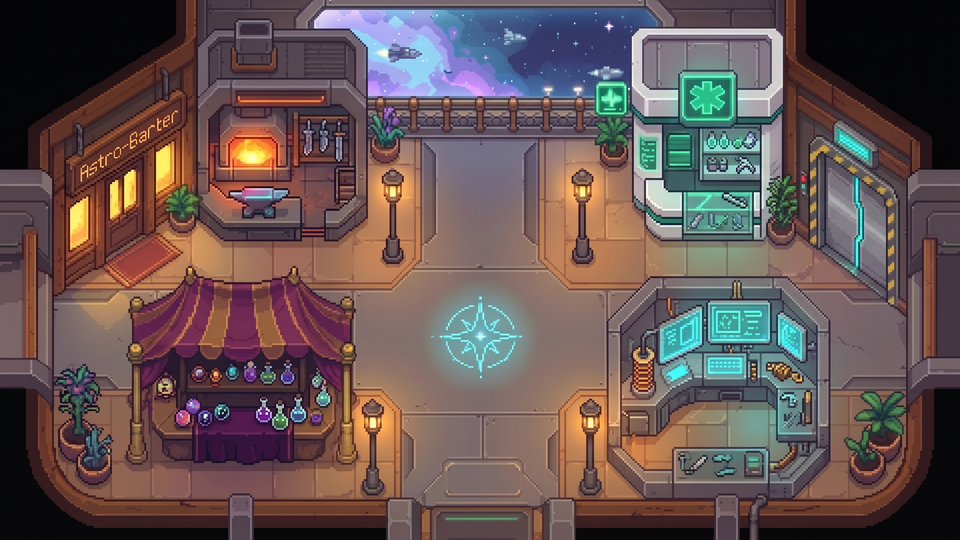
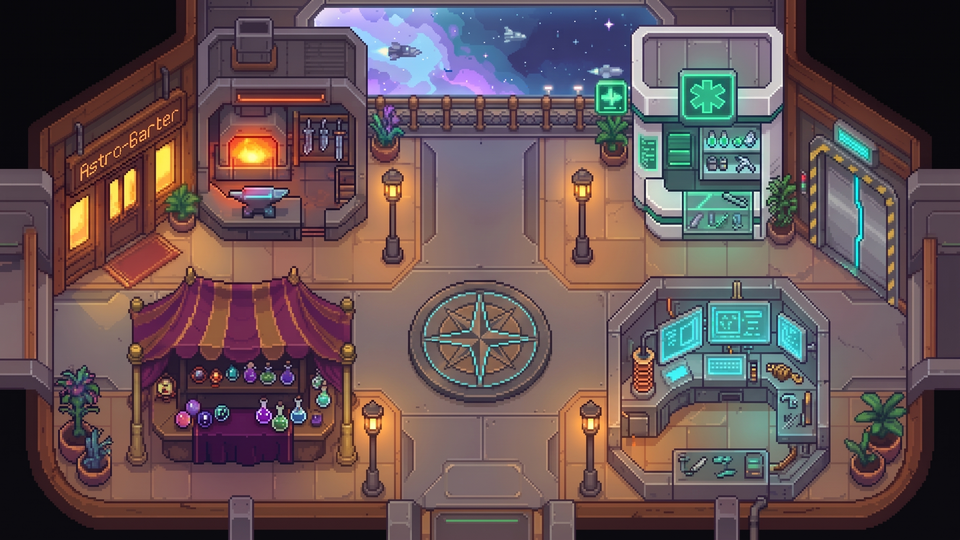
feat(laden,welt): Vitrinen je Stufe, futuristische Truhen, Boden-Medaillon statt Kompass-Glühen, bodenbündige Props
Claude-Session: https://claude.ai/code/session_016nKYwkpeUHJGHpF5xe8T1D

diff --git a/src/scenes/hubEvolution.ts b/src/scenes/hubEvolution.ts
@@ -7,7 +7,7 @@
  * Keine neuen Hub-Hintergründe: Kollisionen & Prompts hängen an hub_bg.png.
  */
 import { getHDArt, type M10SpriteKey, type M12SpriteKey } from '../assets/artLoader';
-import { drawGlow, drawPixelShadow } from '../assets/pixelArt';
+import { drawContactShadow, drawGlow, drawPixelShadow, spriteFootBottom } from '../assets/pixelArt';
 import { SUIT_THEMES } from '../data/companions';
 import type { GameState } from '../systems/gameState';
 import type { StoryFlagId } from '../types';
@@ -62,7 +62,11 @@ function poly(ctx: CanvasRenderingContext2D, pts: Array<[number, number]>, fill:
 
 /** Zeichnet ein Sprite mit Fuß-Mitte bei (x, footY). */
 function drawSpriteFoot(ctx: CanvasRenderingContext2D, spr: HTMLCanvasElement, x: number, footY: number, w: number, h: number): void {
-  ctx.drawImage(spr, Math.round(x - w / 2), Math.round(footY - h), w, h);
+  // Sichtbare Unterkante landet exakt auf footY (Leerrand im PNG erzeugt sonst Schweben) + Kontaktschatten dort
+  const dy = Math.round(footY - h * spriteFootBottom(spr));
+  const dx = Math.round(x - w / 2);
+  drawContactShadow(ctx, spr, dx, dy, w, h, 0.5);
+  ctx.drawImage(spr, dx, dy, w, h);
 }
 
 export class HubEvolutionRenderer {
@@ -289,8 +293,8 @@ export class HubEvolutionRenderer {
   // ---------- Objekte (Sprite oder Fallback) ----------
   private drawCrystalLantern(ctx: CanvasRenderingContext2D, x: number, y: number, time: number): void {
     const glow = 0.3 + 0.1 * Math.sin(time * 2.4 + x);
-    drawPixelShadow(ctx, x, y, 6, 2.2, 0.42);
     const spr = this.sprite('propHubCrystalLantern');
+    if (!spr) drawPixelShadow(ctx, x, y, 6, 2.2, 0.42);
     if (spr) {
       drawSpriteFoot(ctx, spr, x, y, 22, 30);
     } else {
@@ -305,8 +309,8 @@ export class HubEvolutionRenderer {
   }
 
   private drawObelisk(ctx: CanvasRenderingContext2D, x: number, y: number, time: number): void {
-    drawPixelShadow(ctx, x, y + 1, 10, 3.2, 0.5);
     const spr = this.sprite('propHubElderObelisk');
+    if (!spr) drawPixelShadow(ctx, x, y + 1, 10, 3.2, 0.5);
     if (spr) {
       drawSpriteFoot(ctx, spr, x, y, 34, 44);
     } else {
@@ -370,8 +374,8 @@ export class HubEvolutionRenderer {
   }
 
   private drawCycleHolo(ctx: CanvasRenderingContext2D, x: number, y: number, time: number): void {
-    drawPixelShadow(ctx, x, y, 6, 2, 0.35);
     const spr = this.sprite('propHubCycleHolo');
+    if (!spr) drawPixelShadow(ctx, x, y, 6, 2, 0.35);
     if (spr) {
       drawSpriteFoot(ctx, spr, x, y, 26, 26);
     } else {
@@ -398,8 +402,8 @@ export class HubEvolutionRenderer {
   }
 
   private drawMemorial(ctx: CanvasRenderingContext2D, x: number, y: number, time: number): void {
-    drawPixelShadow(ctx, x, y, 9, 3, 0.45);
     const spr = this.sprite('propKaelMemorial');
+    if (!spr) drawPixelShadow(ctx, x, y, 9, 3, 0.45);
     const flick = 0.85 + 0.15 * Math.sin(time * 9 + 1);
     if (spr) {
       drawSpriteFoot(ctx, spr, x, y, 26, 26);
@@ -461,8 +465,8 @@ export class HubEvolutionRenderer {
   }
 
   private drawBeacon(ctx: CanvasRenderingContext2D, x: number, y: number, time: number): void {
-    drawPixelShadow(ctx, x, y + 1, 7, 2.6, 0.45);
     const spr = this.sprite('propVexBeacon');
+    if (!spr) drawPixelShadow(ctx, x, y + 1, 7, 2.6, 0.45);
     const blink = Math.sin(time * 4) > 0;
     if (spr) {
       drawSpriteFoot(ctx, spr, x, y, 30, 40);
@@ -517,8 +521,8 @@ export class HubEvolutionRenderer {
 
   /** M12 (E): Vitrine mit der A.E.G.I.S.-Herzlinse. Sprite `prop_trophy_leviathan` optional, sonst prozedural. */
   private drawLeviathanVitrine(ctx: CanvasRenderingContext2D, x: number, y: number, time: number): void {
-    drawPixelShadow(ctx, x, y + 1, 9, 2.8, 0.45);
     const spr = this.sprite('propTrophyLeviathan');
+    if (!spr) drawPixelShadow(ctx, x, y + 1, 9, 2.8, 0.45);
     const pulse = 0.5 + 0.5 * Math.sin(time * 2.4);
     if (spr) {
       drawSpriteFoot(ctx, spr, x, y, 26, 26);
@@ -540,8 +544,8 @@ export class HubEvolutionRenderer {
   }
 
   private drawClassboard(ctx: CanvasRenderingContext2D, x: number, y: number, time: number): void {
-    drawPixelShadow(ctx, x, y + 1, 8, 2.6, 0.45);
     const spr = this.sprite('propVexClassboard');
+    if (!spr) drawPixelShadow(ctx, x, y + 1, 8, 2.6, 0.45);
     if (spr) {
       drawSpriteFoot(ctx, spr, x, y, 26, 24);
     } else {

diff --git a/src/scenes/ShopScene.ts b/src/scenes/ShopScene.ts
@@ -1,5 +1,5 @@
 import { getHDArt } from '../assets/artLoader';
-import { drawGlow, drawPixelShadow } from '../assets/pixelArt';
+import { drawContactShadow, drawGlow, drawPixelShadow } from '../assets/pixelArt';
 import { getAtlas } from '../assets/sprites';
 import { COMPANION_DEFS, MARKET_EVENT_META, SUIT_THEMES } from '../data/companions';
 import { PATRON_DEFS, PATRON_ORDER } from '../data/guildMarket';
@@ -1669,7 +1669,8 @@ export class ShopScene {
     const y = SALE_BOX_POS.y;
     const count = this.state.countSaleBoxItems();
 
-    drawPixelShadow(ctx, x, y + 9, 11, 3.6, 0.46);
+    if (art.propSaleBox) drawContactShadow(ctx, art.propSaleBox, x - 11, y - 14, 22, 23, 0.55);
+    else drawPixelShadow(ctx, x, y + 9, 11, 3.6, 0.46);
     drawGlow(ctx, x, y - 2, 18, '#fb923c', (count > 0 ? 0.3 : 0.14) + pulse * 0.08);
     if (art.propSaleBox) {
       ctx.drawImage(art.propSaleBox, x - 11, y - 14, 22, 23);
@@ -1904,10 +1905,17 @@ export class ShopScene {
     const atlas = getAtlas();
     const active = p.itemId !== null && p.qty > 0;
 
-    drawPixelShadow(ctx, p.x, p.y + 11, 14, 4.5, 0.45);
-    if (art.pedestal) {
+    // Vitrine je Laden-Ausbaustufe (Intro-Look: Holo-Glasvitrine → Messing → Gold/Kristall); Fallback: alter Sockel
+    const tierIdx = Math.max(0, Math.min(2, this.state.upgrades.shopTier ?? 0));
+    const vitrine = [art.vitrineT1, art.vitrineT2, art.vitrineT3][tierIdx];
+    if (vitrine) {
+      drawContactShadow(ctx, vitrine, p.x - 16, p.y - 20, 32, 32, 0.55);
+      ctx.drawImage(vitrine, p.x - 16, p.y - 20, 32, 32);
+    } else if (art.pedestal) {
+      drawPixelShadow(ctx, p.x, p.y + 11, 14, 4.5, 0.45);
       ctx.drawImage(art.pedestal, p.x - 14, p.y - 14, 28, 28);
     } else {
+      drawPixelShadow(ctx, p.x, p.y + 11, 14, 4.5, 0.45);
       ctx.drawImage(
         active ? atlas.props.pedestalActive : atlas.props.pedestalEmpty,
         Math.round(p.x - 12),

diff --git a/src/dungeon/dungeonRenderer.ts b/src/dungeon/dungeonRenderer.ts
@@ -424,8 +424,8 @@ export class DungeonRenderer {
       const ch = this.scene.currentRoom.chest;
       const chestSpr = ch.opened ? art.chestOpen : art.chestClosed;
       if (chestSpr) {
-        drawContactShadow(ctx, chestSpr, ch.x - 14, ch.y - 13, 28, 25, 0.6);
-        ctx.drawImage(chestSpr, ch.x - 14, ch.y - 13, 28, 25);
+        drawContactShadow(ctx, chestSpr, ch.x - 20, ch.y - 25, 40, 40, 0.6);
+        ctx.drawImage(chestSpr, ch.x - 20, ch.y - 25, 40, 40);
       } else {
         drawPixelShadow(ctx, ch.x, ch.y + 10, 14, 4.5, 0.5);
         ctx.drawImage(
@@ -436,6 +436,9 @@ export class DungeonRenderer {
       }
       if (!ch.opened) {
         drawGlow(ctx, ch.x, ch.y - 2, 28, '#fbbf24', 0.34 + Math.sin(this.scene.time * 4) * 0.08);
+      } else if (ch.slots?.some((sl) => sl)) {
+        // Geöffnet, aber noch Beute drin: warmes Glühen aus der Öffnung
+        drawGlow(ctx, ch.x, ch.y - 9, 18, '#fbbf24', 0.26 + Math.sin(this.scene.time * 3) * 0.07);
       }
     }
 
@@ -624,7 +627,8 @@ export class DungeonRenderer {
         y: landed.y,
         draw: () => {
           const pod = getHDArt().cutsceneDropPodOpen;
-          drawPixelShadow(ctx, landed.x, landed.y + 18, 20, 7, 0.44);
+          if (pod) drawContactShadow(ctx, pod, landed.x - 23, landed.y - 24, 46, 46, 0.5);
+          else drawPixelShadow(ctx, landed.x, landed.y + 18, 20, 7, 0.44);
           if (pod) ctx.drawImage(pod, Math.round(landed.x - 23), Math.round(landed.y - 24), 46, 46);
         },
       });

diff --git a/src/assets/artLoader.ts b/src/assets/artLoader.ts
@@ -75,6 +75,9 @@ export interface HDArtAssets {
   propNyxFreeLantern: HTMLCanvasElement | null;
   propVexBeacon: HTMLCanvasElement | null;
   propVexClassboard: HTMLCanvasElement | null;
+  vitrineT1: HTMLCanvasElement | null;
+  vitrineT2: HTMLCanvasElement | null;
+  vitrineT3: HTMLCanvasElement | null;
   propTrophyLeviathan: HTMLCanvasElement | null;
   /** M12 Phase C: Arena-Boden & Boss-Wand (optional, Fallback arenaFloor.ts) */
   arenaLeviathanBg: HTMLCanvasElement | null;
@@ -316,6 +319,9 @@ const art: HDArtAssets = {
   propNyxFreeLantern: null,
   propVexBeacon: null,
   propVexClassboard: null,
+  vitrineT1: null,
+  vitrineT2: null,
+  vitrineT3: null,
   propTrophyLeviathan: null,
   arenaLeviathanBg: null,
   arenaLeviathanWall: null,
@@ -523,6 +529,9 @@ export const M10_OPTIONAL_SPRITES = {
   propNyxFreeLantern: 'prop_nyx_free_lantern',
   propVexBeacon: 'prop_vex_beacon',
   propVexClassboard: 'prop_vex_classboard',
+  vitrineT1: 'vitrine_t1',
+  vitrineT2: 'vitrine_t2',
+  vitrineT3: 'vitrine_t3',
   npcPilgrim: 'npc_pilgrim',
   npcFoundryWorker: 'npc_foundry_worker',
   npcElderScholar: 'npc_elder_scholar',

diff --git a/src/assets/pixelArt.ts b/src/assets/pixelArt.ts
@@ -173,3 +173,8 @@ export function drawContactShadow(
   drawPixelShadow(ctx, cx, by - 0.5, baseW * 0.62, Math.max(2.2, baseW * 0.2), alpha * 0.55);
   drawPixelShadow(ctx, cx, by - 1.5, baseW * 0.46, Math.max(1.6, baseW * 0.12), alpha);
 }
+
+/** Untere sichtbare Kante eines Sprites als Anteil der Bildhöhe (0..1) — für exakt bodenbündiges Zeichnen. */
+export function spriteFootBottom(img: CanvasImageSource): number {
+  return measureFootprint(img).bottom;
+}

diff --git a/scripts/white-to-alpha.py b/scripts/white-to-alpha.py
@@ -1,0 +1,25 @@
+#!/usr/bin/env python3
+"""Weißen Generator-Hintergrund → Alpha (Flood-Fill vom Rand, Innenflächen bleiben), auf BBox zuschneiden,
+in ein Zielformat einpassen (unten mittig). Nutzung: white-to-alpha.py <in.png> <out.png> <W> <H> [--pad N]"""
+import sys
+from collections import deque
+from PIL import Image
+src, dst, W, H = sys.argv[1], sys.argv[2], int(sys.argv[3]), int(sys.argv[4])
+im = Image.open(src).convert('RGBA'); w, h = im.size; px = im.load()
+def white(p): return p[0] > 238 and p[1] > 238 and p[2] > 238
+seen = bytearray(w*h); q = deque()
+for x in range(w):
+    q.append((x,0)); q.append((x,h-1))
+for y in range(h):
+    q.append((0,y)); q.append((w-1,y))
+while q:
+    x,y = q.popleft()
+    if x<0 or y<0 or x>=w or y>=h or seen[y*w+x]: continue
+    if not white(px[x,y]): continue
+    seen[y*w+x]=1; px[x,y]=(255,255,255,0)
+    q.extend(((x+1,y),(x-1,y),(x,y+1),(x,y-1)))
+bb = im.getchannel('A').point(lambda a: 255 if a>40 else 0).getbbox()
+im = im.crop(bb); s = min(W/im.width, H/im.height)
+im = im.resize((max(1,round(im.width*s)), max(1,round(im.height*s))), Image.LANCZOS)
+out = Image.new('RGBA',(W,H),(0,0,0,0)); out.paste(im,((W-im.width)//2, H-im.height), im)
+out.save(dst); print(dst, out.size, 'bbox', out.getchannel('A').getbbox())

diff --git a/handoff/world_overhaul.md b/handoff/world_overhaul.md
@@ -10,10 +10,16 @@
 ## Checkliste
 - [x] P1a Kontaktschatten: `drawContactShadow` (`pixelArt.ts`) misst die sichtbare Unterkante/Standbreite; angewandt auf Kapitäns-Tafel (Hub), Truhe & Pods (Dungeon). ⬜ noch offen: übrige Props/Drops/Kristall-Spire, Hangar-Schiffe prüfen, Nachtschicht-Look
 - [x] P1b Portale → Airlock-Türen: `hub_bg`, `hangar_bg` (2 Portale → 1 Tür), `shop_bg`/`_t2`/`_t3` neu per art:gen; Originale in `art_source/_raw/*_portal_OLD.png`. ⬜ Hangar-Tür sitzt etwas „im Boden“ → ggf. neu in die Wand setzen; Hub-Beschriftung „Raumhafen →“ prüfen
-- [ ] P2 … P6 (siehe oben)
+- [x] P1c Kompass-Hologramm → bündiges Boden-Medaillon (`hub_bg`); `drawSpriteFoot` (`hubEvolution.ts`) setzt die sichtbare Unterkante exakt auf den Fußpunkt + Kontaktschatten (`spriteFootBottom`); SaleBox, gelandete Kapsel ebenfalls
+- [x] P2 Laden: Vitrinen je Stufe (`vitrine_t1..3`, `renderPedestal`), Intro-Look; ⬜ Sternenlampe/Schlüssel aus Intro-Panel als Deko, `shop_bg_t2` prüfen
+- [x] Truhen: futuristische Panzer-Kiste (offen/zu), Glut solange Beute drin ist; ⬜ Öffnen-Animation (Deckel springt auf)
+- [ ] ⬜ Offset-Audit: Pods/Drops/Kristall-Spire/Backroom/Markt-Terrasse/Hangar-Schiffe (nächster Schritt: weitere `drawPixelShadow` neben `drawImage` auf `drawContactShadow` umstellen)
+- [ ] P3 … P6 (siehe oben)
 
 ## Praxis-Learnings
 1. Portale sind **in die Hintergrund-PNGs eingebacken** (`hub_bg`, `hangar_bg`, `shop_bg*`) → Entfernen = Hintergrund neu erzeugen/übermalen (`npm run art:gen`), nicht nur Code.
 2. Bild-Edit-Rezept: `art:gen --ref <bg.png> --aspect 16:9 --size 2K` mit Prompt „keep everything pixel-identical, ONE change only …“ → Layout bleibt erhalten, Ausgabe 2752×1536 → mit PIL LANCZOS auf 960×540 (Kollisionen/Prompts bleiben passend). 4 Hintergründe parallel in ~1 Min.
 3. Screenshot-Skript für Szenen: `__game.transitionTo('hub'|'backroom'|'hangar'|'shop','hub')` + 1,8 s warten; Dungeon: `dng.startRun(1)`, `dng.enterRoom(key,null)` (rooms ist eine Map).
 4. Push nur auf den Session-Branch (`git push origin HEAD`), nicht `npm run ship` (würde main pushen).
+5. Weiß → Alpha: `scripts/white-to-alpha.py <in> <out> <W> <H>` (Flood-Fill vom Rand, BBox, unten mittig). Paar-Sprites (zu/offen) mit gemeinsamem Maßstab zuschneiden (Truhe: Skala aus der geschlossenen Version).
+6. Sprites mit Leerrand unten schweben optisch: immer `drawContactShadow`/`spriteFootBottom` statt fixer Schatten-Offsets.

diff --git a/SPRITE_QUEUE.md b/SPRITE_QUEUE.md
@@ -288,3 +288,10 @@ Wer im Code oder in einem Plan ein neues benötigtes Sprite, ein neues M11-Sheet
 ## Archiv — Bereits erledigte M11-Sheets (nicht neu generieren)
 - **Kern-Wächter (12/12 komplett):** `core_warden_parts.png`, `core_warden_arms_R.png`, `core_warden_arms_L.png`, `core_warden_heads.png`, `core_warden_torsos.png`, `core_warden_torsos2.png`, `core_warden_fists.png`, `core_warden_arms_R2.png`, `core_warden_arms_L2.png`, `core_warden_heads2.png`, `core_warden_arms_R3.png` *(S6)*, `core_warden_arms_L3.png` *(S6)*
 - **Krall (7/7 komplett):** `krall_parts.png`, `krall_arms_R.png`, `krall_arms_L.png`, `krall_torsos.png`, `krall_legs_R.png`, `krall_legs_L.png`, `krall_effects.png`
+
+## Welt-Überarbeitung (2026-11-28, Chat „Story & Maps Überarbeitung“, `handoff/world_overhaul.md`)
+- [x] **W-01** `public/art/hub_bg.png` ersetzt — Portal → Airlock-Tür, Kompass → bündiges Boden-Medaillon (Original: `art_source/_raw/hub_bg_*_OLD.png`)
+- [x] **W-02** `hangar_bg.png` ersetzt — 2 Portale → 1 Airlock-Tür (Hangar-Tür sitzt etwas „im Boden“, ggf. neu)
+- [x] **W-03** `shop_bg.png`, `shop_bg_t2.png`, `shop_bg_t3.png` ersetzt — Portal → Airlock-Tür
+- [x] **W-04** `vitrine_t1.png`, `vitrine_t2.png`, `vitrine_t3.png` (64×64) — Holo-Vitrinen je Laden-Stufe (optional, Fallback `pedestal.png`)
+- [x] **W-05** `chest_closed.png`, `chest_open.png` (64×64) ersetzt — futuristische Panzer-Kiste (Originale `art_source/_raw/chest_*_OLD.png`)
